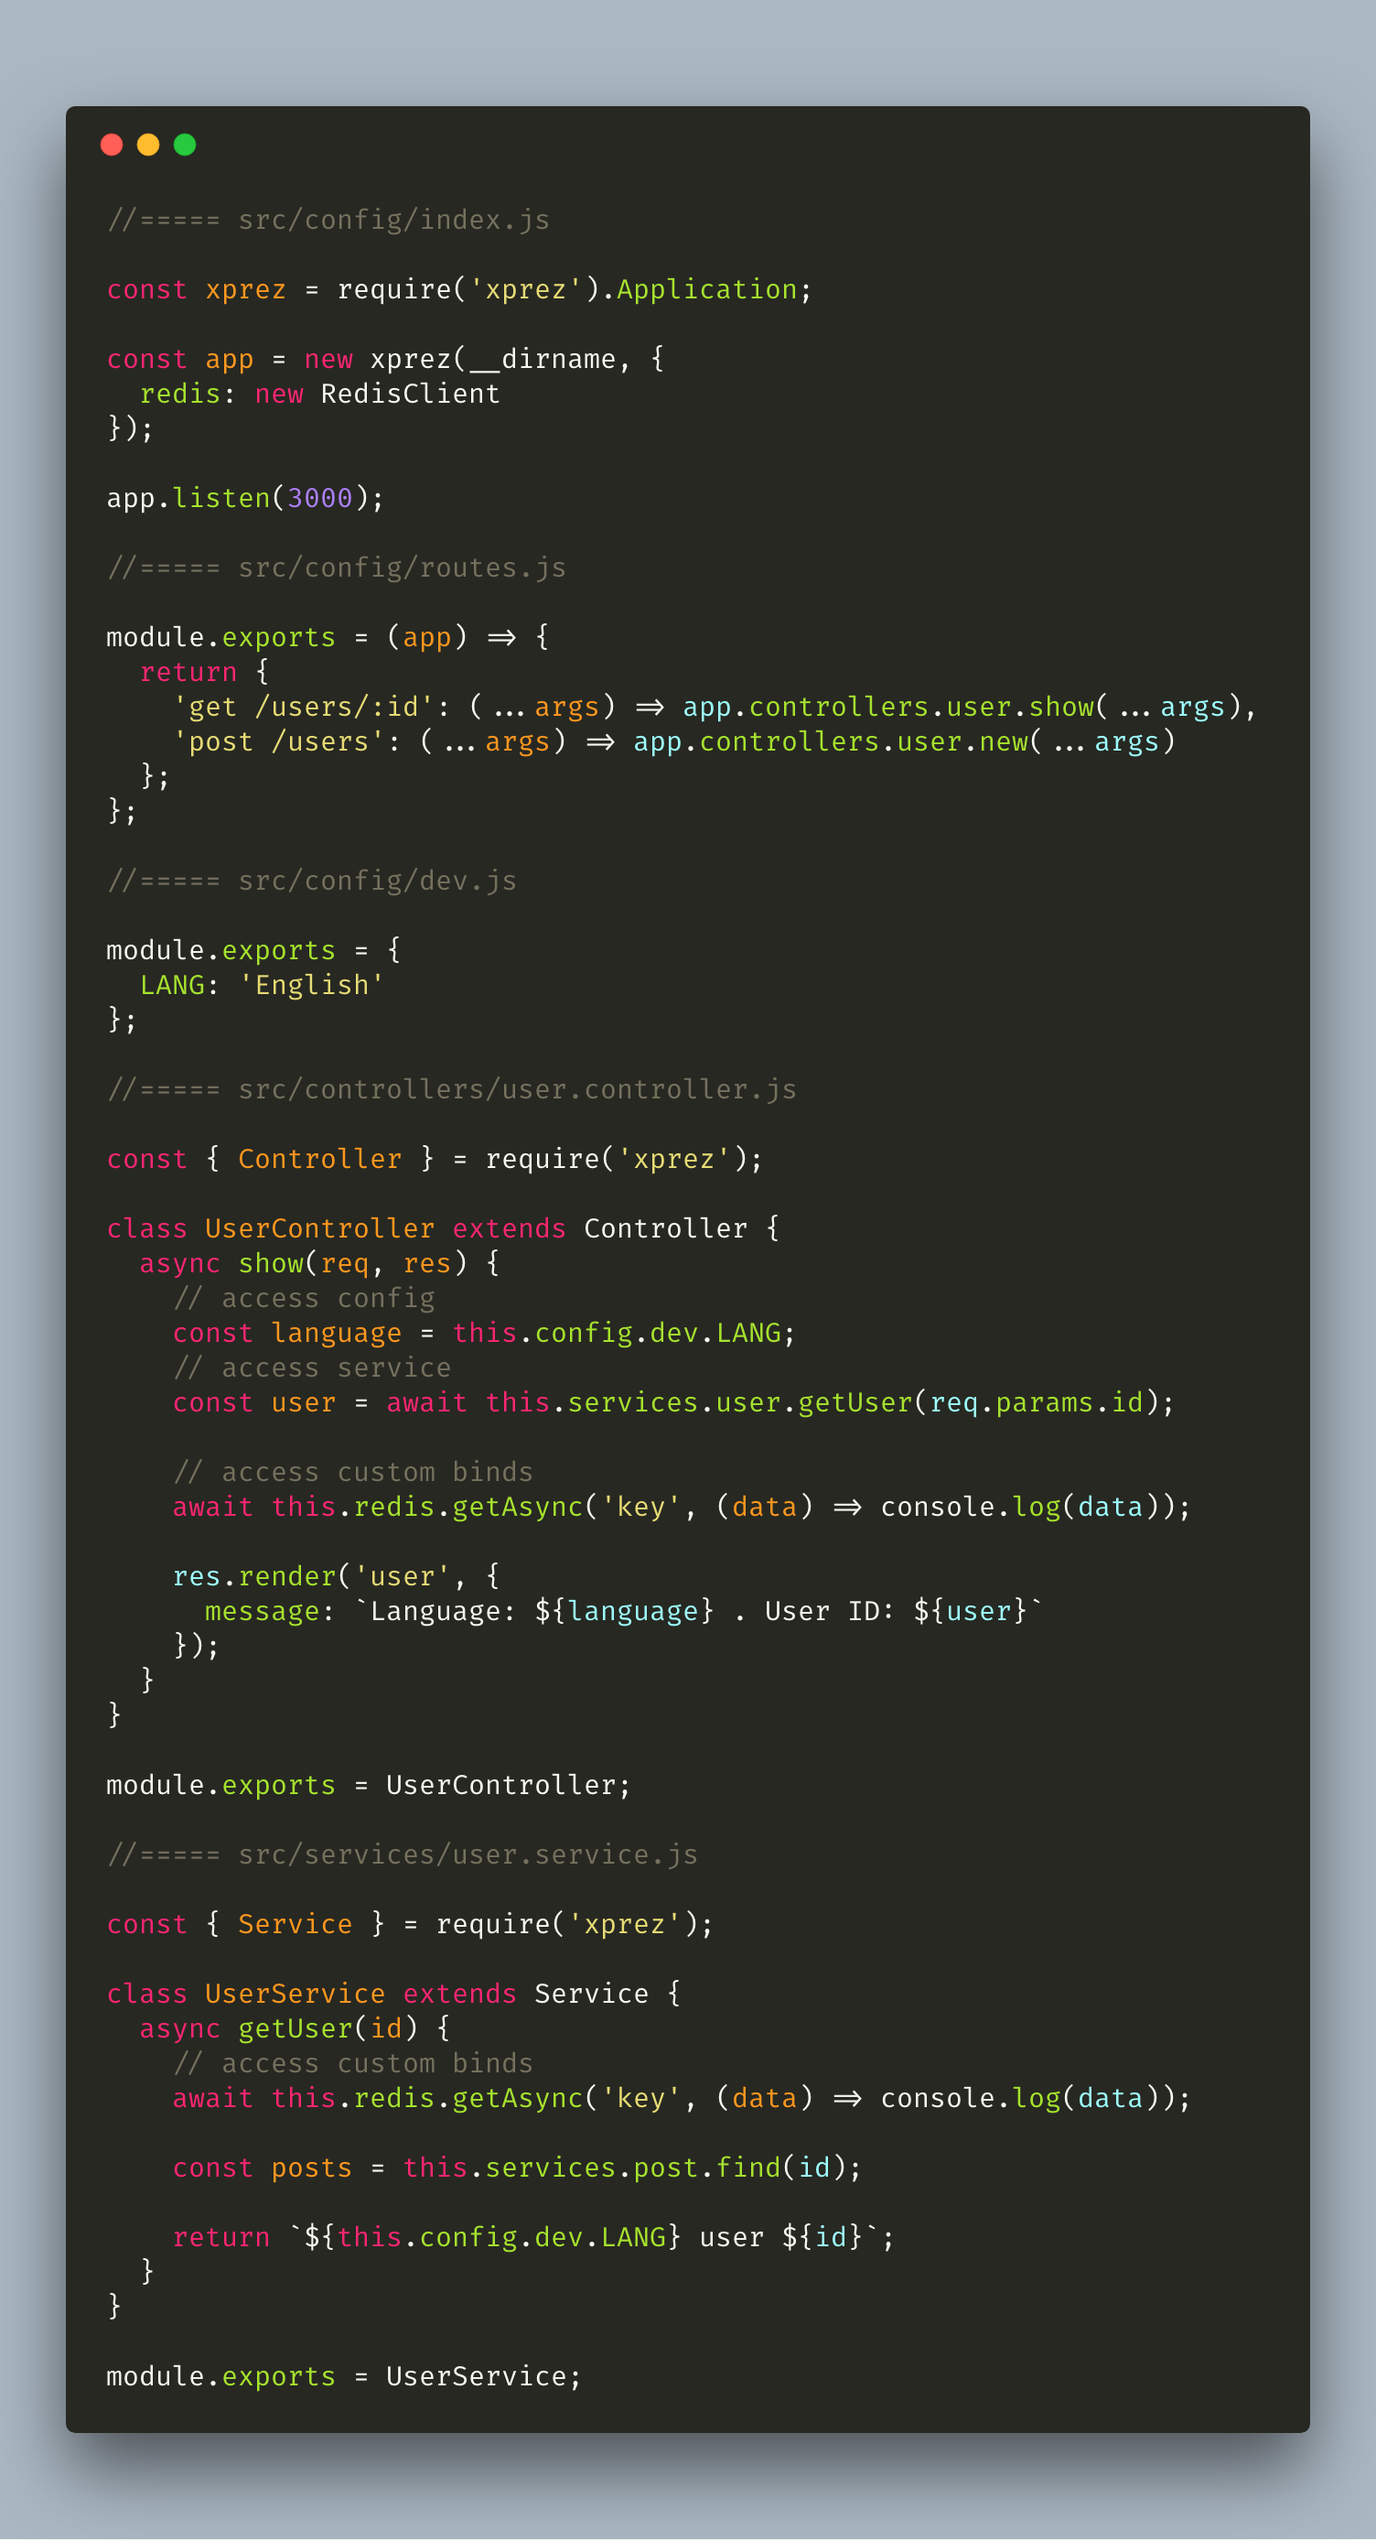
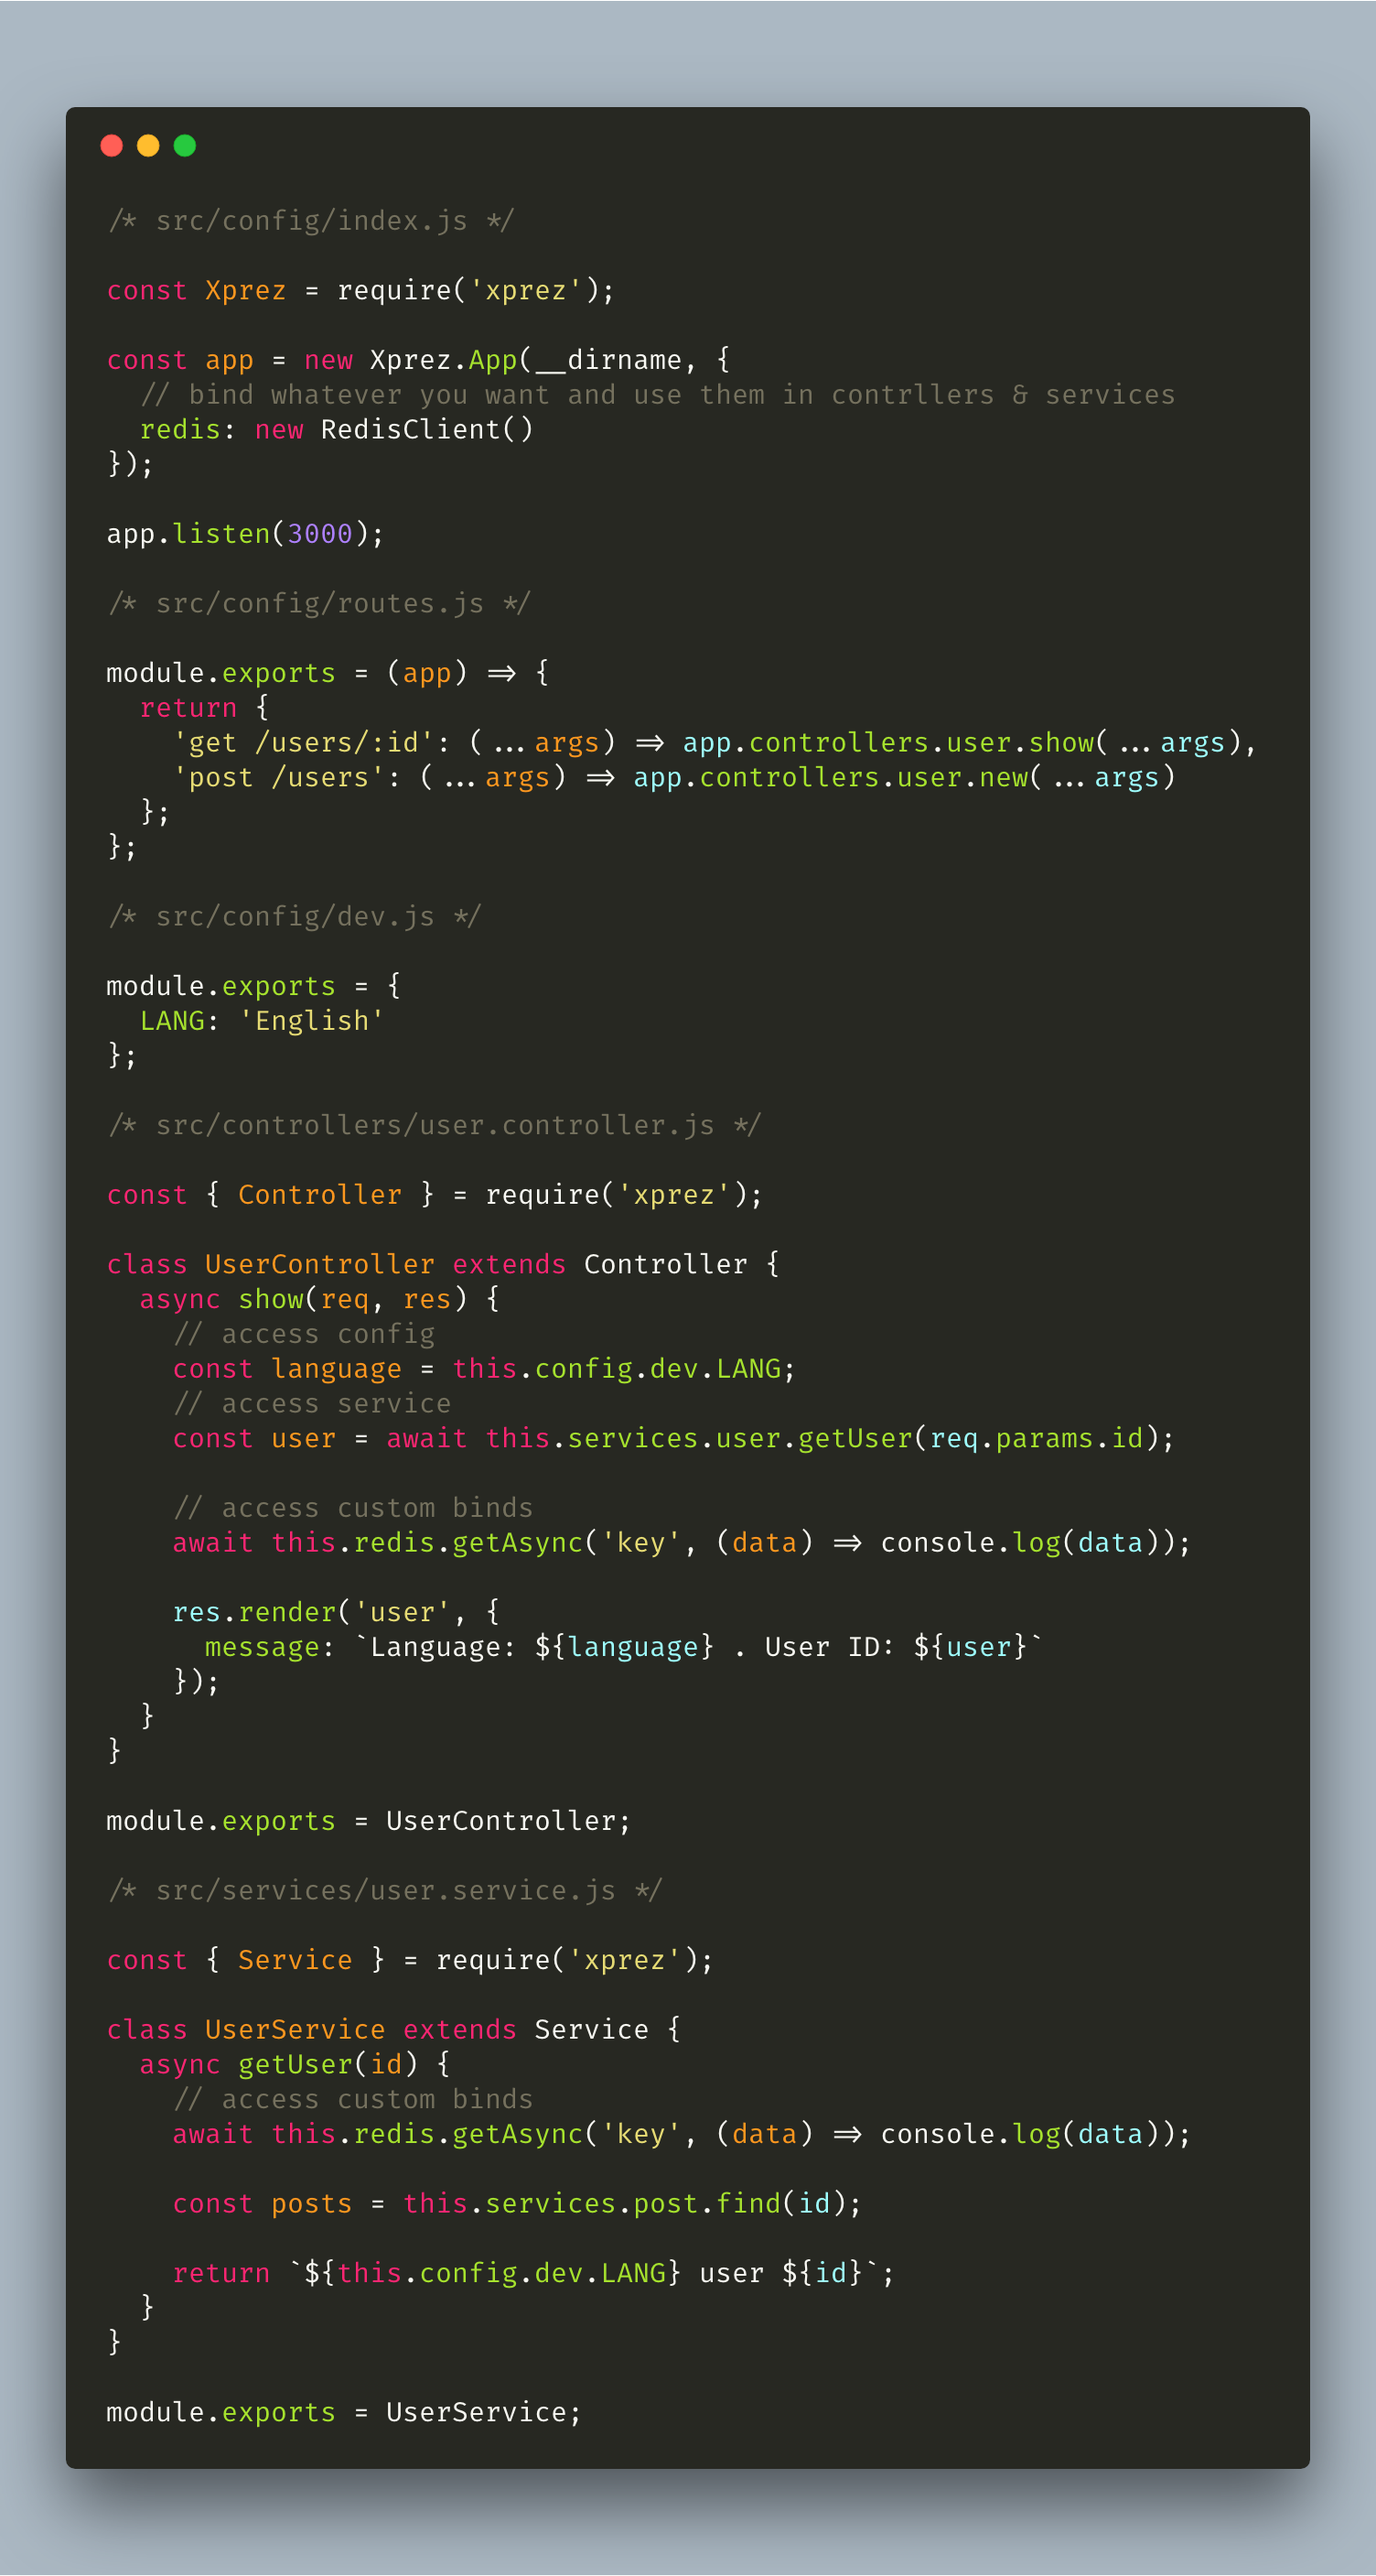
minor fixes

diff --git a/lib/modules/base-class.js b/lib/modules/base-class.js
@@ -12,19 +12,18 @@ class BaseClass {
    * @param {object} app Reference to the Express app object
    */
   constructor(app) {
-    const { config, services } = app;
+    const { config, services, userBindings } = app;
 
     this.config = config;
     this.services = services;
 
-    Object.entries(app.userBindings).forEach(([key, value]) => {
+    Object.entries(userBindings).forEach(([key, value]) => {
       key = key.toLowerCase();
 
       if (key.match(/^(config|services|controllers)$/)) {
         throw 'InvalidBindKeyError';
-      } else {
-        this[key] = value;
       }
+      this[key] = value;
     });
   }
 }

diff --git a/example/src/config/index.js b/example/src/config/index.js
@@ -1,6 +1,6 @@
-const xprez = require('../../..').Application;
+const Xprez = require('../../..');
 
-const app = new xprez(__dirname, {
+const app = new Xprez.App(__dirname, {
   // bind references in this hash
   // `config`, `controllers` and `services` are reserved keywords
   redis: 'Random Redis Client'

diff --git a/lib/application.js b/lib/application.js
@@ -45,7 +45,7 @@ class Application extends Express {
 }
 
 module.exports = {
-  Application,
+  App: Application,
   Controller: modules.Controller,
   Service: modules.Service
 };

diff --git a/lib/middlewares/router.js b/lib/middlewares/router.js
@@ -26,4 +26,4 @@ const router = (app, folderPath) => {
   return router;
 };
 
-module.exports = (app, folderPath) => router(app, folderPath);
+module.exports = router;

diff --git a/README.md b/README.md
@@ -2,15 +2,16 @@
 
 [![Maintainability](https://api.codeclimate.com/v1/badges/18a4dfac6bbc30040e34/maintainability)](https://codeclimate.com/github/yzhan1/xprez/maintainability) [![npm version](https://badge.fury.io/js/xprez.svg)](https://badge.fury.io/js/xprez) ![npm downloads](https://img.shields.io/npm/dt/xprez.svg)
 
-A minimal opinionated web framework (built on top of Express.js) that separates router, controllers and services. Heavily inspired by [Egg.js](https://github.com/eggjs/egg).
+A minimal opinionated web framework (built on top of [Express.js](https://github.com/expressjs/express/)) that separates router, controllers and services. 
+Heavily inspired by [Egg.js](https://github.com/eggjs/egg).
 
 ### Getting Started
 
-+ To install, run `npm i xprez --save`.
++ To install, run `npm i xprez --save`
 + To run the example, either
-  + Clone the repo, `cd example` and run `npm install`, then run `npm start`.
-  + Or download the `./example` folder, change all `require('../../..')` to `require('xprez')`, and run `npm install` + `npm start`.
-+ To contribute, please first clone the repo, then run `npm install`.
+  + Clone the repo, `cd example` and run `npm install`, then run `npm start`
+  + Or download the `./example` folder, change all `require('../../..')` to `require('xprez')`, and run `npm install` + `npm start`
++ To contribute, please first clone the repo, then run `npm install`
 
 ### Example Code Snippet
 
